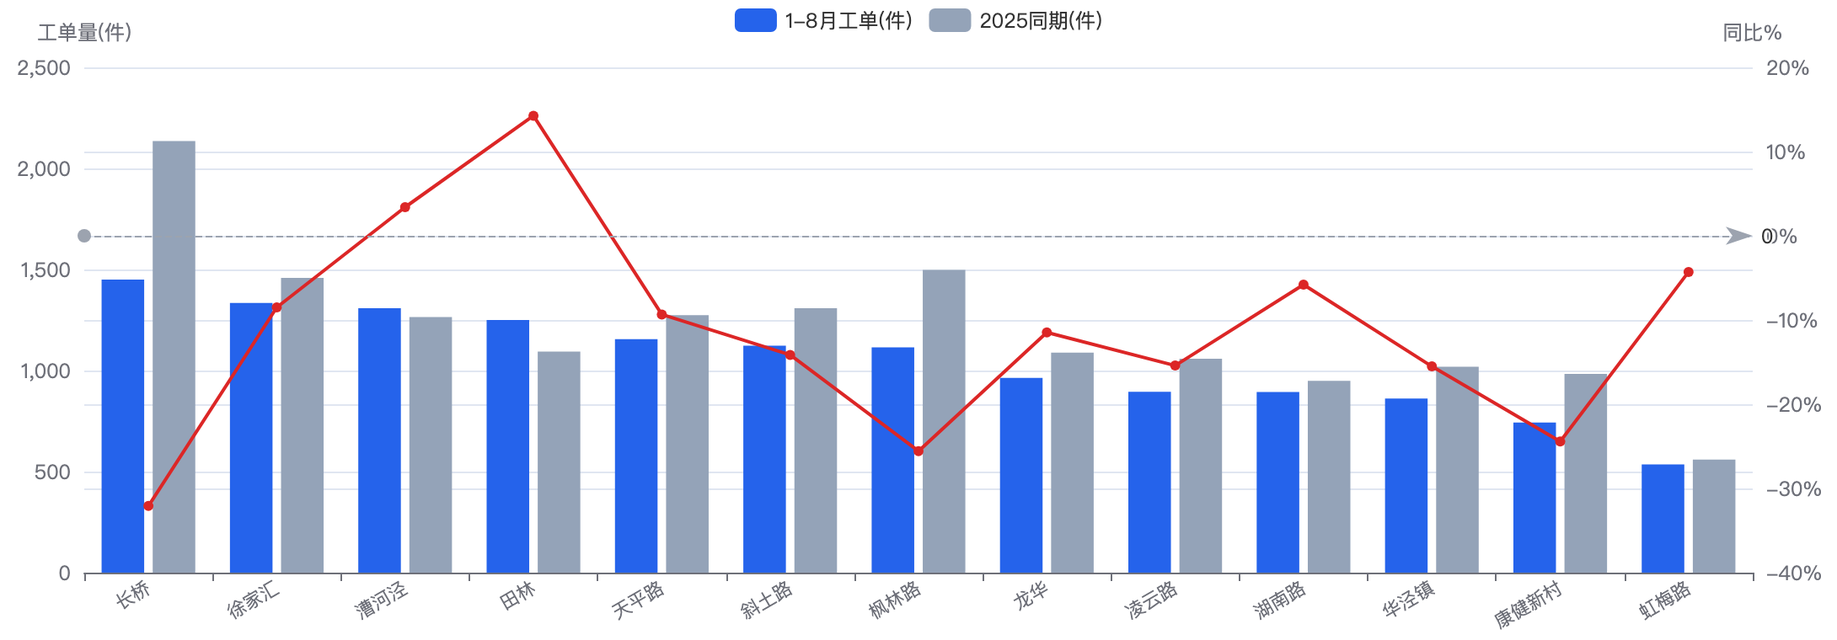
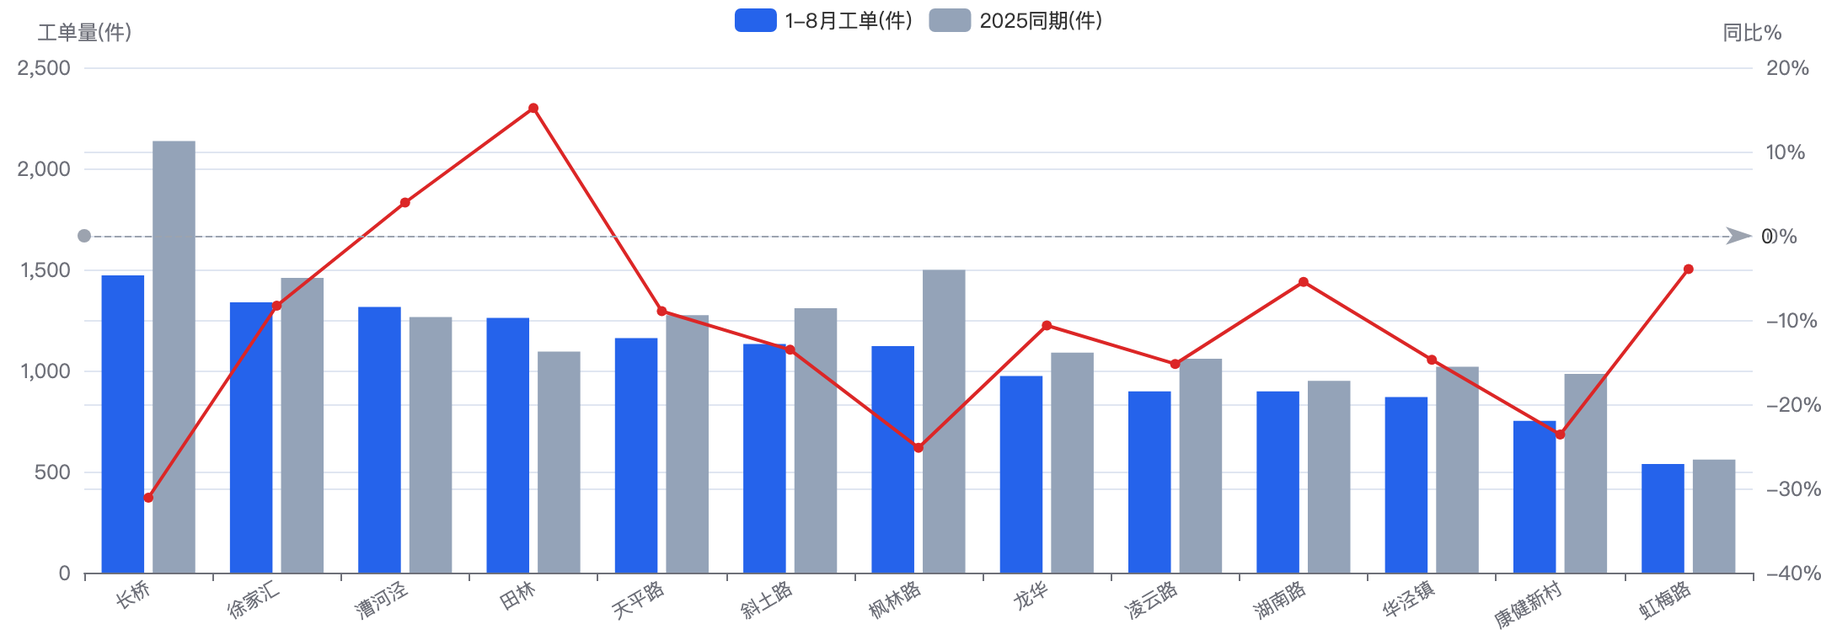
chore: 发布成果站到 gh-pages（GitHub Pages 专用发布分支）
仅含成果报告页与其依赖资源，不含脚本、docx/xlsx 数据文件与原始工单明细。
由 scripts/build_publish_site.py + scripts/publish_gh_pages.py 生成。

diff --git a/网页版整改清单（技术方执行版）.html b/网页版整改清单（技术方执行版）.html
@@ -59,7 +59,7 @@
 
 <header>
   <h1>徐汇物业投诉数据分析项目 · 网页版整改清单</h1>
-  <div class="sub">技术方执行版 <b>v2.6</b> · 13 项中 <b>12 项已完成</b>（<b>余第 11 项</b>：同比删 2024）；10 条口径决策全部落地 + 全站纳统口径源已统一到 <b>993</b>，<b>无待决项</b></div>
+  <div class="sub">技术方执行版 <b>v2.7</b> · 13 项中 <b>12 项已完成</b>（<b>余第 11 项</b>：同比删 2024）；10 条口径决策全部落地 + 全站纳统口径源已统一到 <b>993</b>，<b>无待决项</b></div>
   <div class="meta">
     来源：2026-09-23 项目汇报与工单数据获取沟通会议 &nbsp;|&nbsp;
     v1 整理：2026-09-28 &nbsp;|&nbsp; v2 修订：2026-09-28（并入 6 条口径决策）&nbsp;|&nbsp;
@@ -68,7 +68,8 @@
     v2.3 修订：2026-09-28（<b>风险评估类报告改按《纳统小区 (2026 更新版)》统计</b>：参评 772 / 红 254 / 橙 386 / 黄 108 / 蓝 24、治理追踪 390、纳统总数 993）&nbsp;|&nbsp;
     v2.4 修订：2026-09-28（<b>全站统一到 993</b>：关联库按 2026 更新版重建为 993 行 × 45 字段，多源／根因两份报告的匹配链路重跑、关联字段复算，街镇密度户数改为按纳统小区归并）&nbsp;|&nbsp;
     v2.5 修订：2026-09-29（<b>第 6/8/9/10/13 项落地</b>：高风险评分改 100 分起扣、底抬小区在街镇单独分类、关键数字下钻抽屉、词云停用词人工审核 249 词、华泾红色占比核查）&nbsp;|&nbsp;
-    v2.6 修订：2026-09-29（<b>第 12 项落地</b>：治理报告新增第八节「物业服务态度投诉专项排名」公司／小区双视图 + <b>全区同比口径修正</b>：-12.6% → <b>-13.1%</b>，减少 2,072 件）<br>
+    v2.6 修订：2026-09-29（<b>第 12 项落地</b>：治理报告新增第八节「物业服务态度投诉专项排名」公司／小区双视图 + <b>全区同比口径修正</b>：-12.6% → <b>-13.1%</b>，减少 2,072 件）&nbsp;|&nbsp;
+    v2.7 修订：2026-10-10（<b>街镇密度分母统一 + 第 9 章口径修正</b>：密度分母由「仅本期有投诉小区」改为<b>全部纳统小区</b>（全区 518,389 户）→ <b>湖南街道密度 49.0 件/千户</b>（<b>推翻原 2-C 决策的 50.7</b>）；第 9 章《1-8月工单综合分析与目标测算》街镇口径与第 8 章街镇报告统一为 <b>13,719</b>）<br>
     代码基线：<code>f120ca2</code>（2026-09-22，线上 GitHub Pages 与本地一致）<br>
     ⚠ 行号基于整理时的文件版本；改完一处后续行号会位移，请以「关键词定位」为准。
   </div>
@@ -116,8 +117,9 @@
     </tr>
     <tr>
       <td>7</td><td>湖南路投诉密度</td>
-      <td><b>采用 50.7 件/千户</b>（保留一位小数，<b>不取整为 50</b>）。全站凡出现湖南路/湖南街道投诉密度处，一律为
-        <b>50.7 件/千户（全区最高）</b>；5.0 万人口 · 2,535 件口径不变。</td>
+      <td><b>采用 49.0 件/千户</b>（保留一位小数）。全站凡出现湖南路/湖南街道投诉密度处，一律为
+        <b>49.0 件/千户（全区最高）</b>；分母统一为<b>全部纳统小区</b>总户数（18,299 户，897 ÷ 18,299 × 1000）。
+        <span class="was">原 2-C 决策的 50.7 件/千户（分母仅计本期有投诉小区 17,675 户）已于 2026-10-10 废弃。</span></td>
       <td>第 2 项</td>
     </tr>
     <tr>
@@ -164,7 +166,7 @@
 <div class="note green">
   <b>✅ v2.3→v2.4：10 条口径决策全部落地 + 全站纳统口径源统一到 993，无待决项，可直接开工。</b><br>
   <b>第一批（6 条）：</b>纳统基准数 / 预警基数 / 治理追踪表述 / 1-8 月统一 / 智能体下架 / 下钻方案二。<br>
-  <b>第二批（3 条）：</b>① 湖南路密度取 <b>50.7</b> 不取整；② 同比<b>删 2024</b>、只留 2025 vs 2026；
+  <b>第二批（3 条）：</b>① 湖南路密度取 <b>49.0</b>（<span class="was">原定 50.7，2026-10-10 分母口径变更后废弃</span>）；② 同比<b>删 2024</b>、只留 2025 vs 2026；
   ③ 治理追踪门槛不可简化，表述统一为「2025 年同期≥10 件」主导门槛。<br>
   <b>第三批（1 条，本次并入）：</b>④ <b>风险评估类报告改按《纳统小区 (2026 更新版)》统计</b> ——
   只统计名单内小区、按纳统小区聚合、统一到 2026年1-8月。随之定档：纳统总数 <b>993</b>（968 个有热线记录）、
@@ -223,7 +225,7 @@
       <tr><td>底部抬升小区投诉降幅</td><td class="to">16.9%</td><td>16.9%</td><td>✅ 已一致</td></tr>
       <tr><td>纳统小区总数</td><td class="to">993（《纳统小区 (2026 更新版)》档案）</td><td class="was">994（旧关联库）/ 968 并存且未区分含义</td><td class="to">✅ 已定：993 为基准，968 为参与口径（见 2-A）</td></tr>
       <tr><td>高风险预警参评基数</td><td class="to">投诉量≥10件的参评小区，<b>772 个</b></td><td class="was">620 / 628 / 799 三说</td><td class="to">✅ 已定：全站统一 772（见 2-B）</td></tr>
-      <tr><td>湖南街道投诉密度</td><td class="to">50.7 件/千户</td><td>50.7（居首）</td><td class="to">✅ 已定：保留 50.7，不取整（见 2-C）</td></tr>
+      <tr><td>湖南街道投诉密度</td><td class="to">49.0 件/千户</td><td>49.0（居首）</td><td class="to">✅ 已定：分母为全部纳统小区（518,389 户）→ 49.0（见 2-C）</td></tr>
       <tr><td>风险评估报告纳入范围</td><td class="to">仅《纳统小区 (2026 更新版)》名单内 · 按纳统小区聚合 · 2026年1-8月</td><td class="was">热线全口径自由文本小区名、1-7月与三年累计混用</td><td class="to">✅ 已定（见 2-D）</td></tr>
     </table>
 
@@ -257,6 +259,9 @@
       <b>复算结果：</b>热线覆盖 <b>968/993（97.5%）</b>、电梯 <b>257/268（95.9%）</b>、
       修缮 <b>285/338（84.3%）</b>、底部抬升 <b>83/84（98.8%）</b>；街镇密度户数改为按纳统小区归并累加
       （494,966 → <b>507,982</b>），修正原「小区名匹配不上即按 0 户计」导致的密度虚高。<br>
+      <b>⚠ v2.7 再次修正（2026-10-10）：</b>上述 507,982 仍只是「<b>本期有投诉</b>小区」的户数合计，口径仍偏窄。
+      现统一为<b>全部纳统小区</b>总户数 <b>518,389 户</b>（993 个小区，<code>total_households</code> 全量累加），
+      与第 9 章一致；湖南路密度随之由 50.7 修正为 <b>49.0</b> 件/千户（见 2-C）。<br>
       <b>另需注意：</b>旧库主表并非旧版《纳统小区.xls》（二者虽同为 994 行，但户数有 8 处不同、
       名称用半角括号、且有「钦州大厦」这类只在旧库存在的条目），故本次为 <b>独立重建</b> 而非增量改名。
     </div>
@@ -324,13 +329,20 @@
       "1 个"改为实际数量 <b>254 个</b>。
     </div>
 
-    <h4>2-C 湖南街道投诉密度 <span style="color:#15803d;">（已定 · 采用 50.7，不取整）</span></h4>
+    <h4>2-C 湖南街道投诉密度 <span style="color:#15803d;">（已定 · 采用 49.0，v2.7 修订）</span></h4>
     <ul class="tight">
-      <li><b>结论：</b>保留 <b>50.7 件/千户</b>（保留一位小数），<b>不四舍五入为 50</b>。整改单中「50」视为概数表述，精确值以计算口径为准。</li>
-      <li>现状：<code>街镇专项分析报告.html:1853</code> 显示 <b>50.7</b> 件/千户（居首）；<code>版本更新记录.html:237</code> 亦为 50.7 —— <b>两处均已正确，无需改数</b>。</li>
+      <li><b>结论：</b>采用 <b>49.0 件/千户</b>（保留一位小数）。<span class="was">原 v2.2 定的「50.7 不取整」随分母口径变更于 2026-10-10 作废。</span></li>
+      <li><b>分母口径（关键）：</b>密度分母统一为<b>全部纳统小区</b>的总户数（<b>不区分本期有无投诉</b>），
+        取自《纳统小区 (2026 更新版)》档案 <code>total_households</code> 字段，993 个小区全区合计 <b>518,389 户</b>。
+        湖南路＝897 ÷ 18,299 × 1000 = <b>49.0</b> 件/千户。</li>
+      <li><b>变更理由：</b>旧口径「仅计 2026年1-8月有投诉小区」会使分母随「哪些小区恰好有投诉」浮动、
+        密度虚高，且与第 9 章《1-8月工单综合分析与目标测算》的分母不一致（旧全区 507,982 户 vs 全量 518,389 户）。
+        统一后第 8 章街镇报告与第 9 章数值完全对齐。</li>
+      <li>现状：<code>街镇专项分析报告.html</code> 密度排名表湖南路行 = 897 / 18,299 / <b>49.0</b>；
+        第 9 章《1-8月工单综合分析与目标测算》街镇表同步为 <b>49.0</b>。</li>
       <li>口径：投诉密度 = 投诉量 ÷ 户数 × 1000（<b>件/千户</b>），全站统一，不使用「件/百户」「件/小区」。</li>
-      <li><b>待办（仅查漏）：</b>全站检索「湖南」+ 密度值，确认无第三处写成 50 或 50.0；如 `片区/街镇对比表` 中有取整展示，一并改为 50.7。若确需同时展示概数，写作
-        <b>「50.7 件/千户（约 51 件/千户）」</b>，不得直接写 50。</li>
+      <li><b>待办（仅查漏）：</b>全站检索「湖南」+ 密度值，确认无 50 / 50.0 / 48.9 等旧写法残留
+        （已加入 <code>scripts/audit_consistency.py</code> 的 BASE / BANNED / COMBOS 三表）。</li>
     </ul>
     <h4>验收</h4>
     <p>主报告、街镇专题、根因分析、底部抬升四个模块交叉核对，上述指标数字完全一致，且收窄口径处均有说明。</p>
@@ -778,7 +790,7 @@
       <tr><td>4</td><td>治理追踪小区数</td><td class="was">394（治理报告）/ 635（智能体页 + 课题成果总览）</td><td class="to">✅ <b>390</b> 为准；635 已处置（成果总览 4 处改 390，智能体页随下架消失）</td></tr>
       <tr><td>5</td><td>底部抬升小区数</td><td class="was">84（专题页）/ 78（专题页他处）/ 23（根因报告）</td><td class="to">✅ 统一为 84，统计分母 78 并注明（第 1 项）</td></tr>
       <tr><td>6</td><td>去重率</td><td class="was">40.5% / 44.9% / 34.6% / 35.8% 四值并存</td><td class="to">✅ 统一为 1-8 月 35.8%（第 3 项）</td></tr>
-      <tr><td>7</td><td>湖南街道投诉密度</td><td class="was">50（整改单）/ 50.7（报告实测）</td><td class="to">✅ 已定：<b>50.7 件/千户</b>，不取整（第 2-C 项）</td></tr>
+      <tr><td>7</td><td>湖南街道投诉密度</td><td class="was">50（整改单）/ 50.7（报告实测）</td><td class="to">✅ 已定：<b>49.0 件/千户</b>，分母统一为全部纳统小区（518,389 户）（第 2-C 项，v2.7 修订）</td></tr>
       <tr><td>8</td><td>风险评估报告纳入范围<br><span style="font-size:11px;">（v2.3 新增）</span></td><td class="was">热线全口径自由文本小区名（含名单外）；1-7 月与三年累计混用</td><td class="to">✅ 已定：仅《纳统小区 (2026 更新版)》名单内 + 按纳统小区聚合 + 2026年1-8月（第 2-D 项）</td></tr>
     </table>
     <p class="note green">本表 8 项现已<b>全部定档</b>。整改完成后<b>必须跑一次全站数字对账</b>（验收步骤，见<b>第八节</b>）：
@@ -811,7 +823,7 @@
       <tr><th>批次</th><th>内容</th><th>说明</th></tr>
       <tr><td><b>第 0 批</b><br>已决（归档）</td>
         <td>口径决策共 <b>10 条</b>全部落定：第一批 6 条（纳统基准 / 预警基数 / 治理追踪 / 1-8月 / 智能体 / 下钻）<br>
-          ＋ 第二批 3 条（湖南路 50.7 / 同比删 2024 / 治理追踪门槛不可简化）<br>
+          ＋ 第二批 3 条（湖南路 49.0 / 同比删 2024 / 治理追踪门槛不可简化）<br>
           ＋ 第三批 1 条（<b>风险评估报告改按纳统小区统计</b>）</td>
         <td class="to">✅ <b>已定，无需再议</b>。第 2、4、9、11 四项的数字与明细条数随之全部确定</td></tr>
       <tr><td><b>第 0.5 批</b><br><span style="color:#15803d;">本轮已完成</span></td>
@@ -819,7 +831,7 @@
           <code>governance_tracking.py --scope aggregate</code> → 参评 <b>772</b>、追踪 <b>390</b>；
           同步改《高风险小区预警清单》《治理效果追踪分析报告》《街镇专项分析报告》《课题成果总览》</td>
         <td class="to">✅ <b>已落地</b>；对账脚本冲突已由 5 处收敛到 <b>0 处</b></td></tr>
-      <tr><td><b>第 1 批</b><br>口径固化与下架</td><td>第 2 项（993 基准+参与口径、预警基数 772、湖南路 50.7）、第 4 项（治理追踪表述统一，390）、第 5 项（智能体下架）</td>
+      <tr><td><b>第 1 批</b><br>口径固化与下架</td><td>第 2 项（993 基准+参与口径、预警基数 772、湖南路 49.0）、第 4 项（治理追踪表述统一，390）、第 5 项（智能体下架）</td>
         <td>智能体下架后可自动消除 635、44.9% 两处冲突，宜尽早做</td></tr>
       <tr><td><b>第 2 批</b><br>核心数据修正</td><td>第 1 项（底部抬升 84）、第 3 项（1-6月→1-8月，含整年重跑）、第 13 项（华泾占比）</td>
         <td>直接影响向新组织部长汇报，优先级最高；第 3 项需先重跑 <code>dedup_monthly.py</code></td></tr>
@@ -930,7 +942,7 @@
         <td class="was">把 <b>-12.6%</b>（13 街镇合计 13,719÷15,689，减少 1,970 件）标为「全区」<br><span style="font-size:11px;">两口径差 102 件 = 归属为空工单的减少量；街镇口径可用于「街镇明细合计」，但不得冠以「全区」</span></td></tr>
       <tr><td>14</td><td>底部抬升小区投诉降幅</td><td class="to">-16.9%</td><td>16.9%</td><td class="was">—</td></tr>
       <tr><td>15</td><td>华泾镇红色预警占比</td><td class="to">47.6%</td><td>47.6%（全区最高）</td><td class="was">0.0% · 57.1%（旧口径）</td></tr>
-      <tr><td>16</td><td>湖南街道投诉密度</td><td class="to">50.7 件/千户</td><td>50.7（全区最高）</td><td class="was">50 · 50.0（取整写法）</td></tr>
+      <tr><td>16</td><td>湖南街道投诉密度</td><td class="to">49.0 件/千户</td><td>49.0（全区最高）</td><td class="was">50 · 50.0 · 50.7 · 48.9（旧分母口径）</td></tr>
       <tr><td>17</td><td>同比对比年数</td><td class="to">仅 2025 / 2026 两年</td><td>2025年1-8月 vs 2026年1-8月</td>
         <td class="was">2024 vs 2025 vs 2026 · 较 2024 年 · cat2024 · y24</td></tr>
       <tr><td>18</td><td>智能体相关</td><td class="to">全站不可出现</td><td>—</td><td class="was">智能体 · AI助手 · 大模型 · 635</td></tr>

diff --git a/徐汇区1-8月工单综合分析与目标测算.html b/徐汇区1-8月工单综合分析与目标测算.html
@@ -49,7 +49,7 @@ border-radius:8px;padding:14px 18px;margin:12px 0;font-size:14px}
 </style></head><body><div class="wrap">
 
 <h1>徐汇区物业投诉 1–8 月综合分析与目标测算</h1>
-<div class="sub">数据周期 2024.01–2026.08 ｜ 街镇对比用项目主数据口径（13,627件）｜ 全市对比用市局十四类口径（13,726件）｜ 生成于 2026-09-29</div>
+<div class="sub">数据周期 2024.01–2026.08 ｜ 街镇对比用项目主数据口径（13,719件）｜ 全市对比用市局十四类口径（13,726件）｜ 生成于 2026-10-10</div>
 
 <div class="callout danger"><b>核心判断：</b>徐汇 1–8 月累计同比 <b>-13.1%</b>（全市第 13/17，低于全市平均 -15.4%），但月度环比已连续 4 个月上涨，<b>8 月单月同比转正 +2.84%</b>、日均已达 <b>72 件</b>。若 9–12 月维持 8 月高位，全年降幅将收窄至约 <b>-5.6%</b>、排名跌至第 16/17。<b>要保持全年下降态势，9–12 月日均工单需控制在 51–56 件</b>，较 8 月回落约 16–21 件/日。</div>
 
@@ -72,7 +72,7 @@ border-radius:8px;padding:14px 18px;margin:12px 0;font-size:14px}
 <div class="card"><h3>同比降幅排序</h3><div class="chart s" id="c-street2"></div></div>
 <div class="card"><h3>诉求密度对比</h3><div class="chart s" id="c-street3"></div></div>
 </div>
-<div class="callout warn"><b>街镇观察：</b>① <b>田林（+14.3%）、漕河泾（+3.4%）</b>是仅有的两个同比上升街镇，田林尤甚，需重点介入；② <b>长桥（-32.1%）、枫林路（-25.6%）、康健（-24.4%）</b>降幅领先，治理成效突出；③ 密度上 <b>湖南路（48.9）、天平路（37.6）</b>远高于均值，老城区压力集中；康健（18.4）、龙华（21.2）密度最低。</div>
+<div class="callout warn"><b>街镇观察：</b>① <b>田林（+15.2%）、漕河泾（+4.0%）</b>是仅有的两个同比上升街镇，田林尤甚，需重点介入；② <b>长桥（-31.1%）、枫林路（-25.2%）、康健新村（-23.6%）</b>降幅领先，治理成效突出；③ 密度上 <b>湖南路（49.0）、天平路（37.7）</b>远高于均值，老城区压力集中；康健新村（18.6）、龙华（21.4）密度最低。</div>
 
 <h2><span class="n">二、</span>徐汇在全市的水平与月度走势</h2>
 <div class="card">
@@ -114,9 +114,9 @@ border-radius:8px;padding:14px 18px;margin:12px 0;font-size:14px}
 <div class="callout"><b>行动建议：</b>
 <div style="margin-top:8px;font-size:13.5px;line-height:1.8">
 1. <b>立即设日均红线 56 件</b>（维持位次线），争取 51 件（进前 9 线）；8 月已达 72 件，须回落 ≥16 件/日。<br>
-2. <b>重点压降反弹街镇</b>：田林（+14.3%）、漕河泾（+3.4%）为同比上升区，是拖累全局的主因，建议单列专项。<br>
+2. <b>重点压降反弹街镇</b>：田林（+15.2%）、漕河泾（+4.0%）为同比上升区，是拖累全局的主因，建议单列专项。<br>
 3. <b>夏季高峰前置干预</b>：7–8 月为历史高峰且 2026 反弹强，9 月起对停车管理、群租、物业安保等高频类目开展集中整治。<br>
-4. <b>密度治理聚焦湖南路、天平路</b>（老城区密度超均值 1.5 倍），结合加装电梯、老旧小区改造推进根源治理。<br>
+4. <b>密度治理聚焦湖南路、天平路</b>（两镇密度显著高于全区均值），结合加装电梯、老旧小区改造推进根源治理。<br>
 5. <b>9 月数据入库后</b>可一键更新本测算；若 9 月仍 >2,200 件，建议将全年目标从"维持-13.1%"下调为"保-10%底线"。
 </div></div>
 
@@ -124,7 +124,7 @@ border-radius:8px;padding:14px 18px;margin:12px 0;font-size:14px}
 </div>
 
 <script>
-var DATA = {"street": {"rows": [{"name": "长桥", "c26": 1450, "c25": 2135, "yoy": -32.08, "hh": 56474, "density": 25.7}, {"name": "徐家汇", "c26": 1334, "c25": 1458, "yoy": -8.5, "hh": 57441, "density": 23.2}, {"name": "漕河泾", "c26": 1308, "c25": 1265, "yoy": 3.4, "hh": 50477, "density": 25.9}, {"name": "田林", "c26": 1250, "c25": 1094, "yoy": 14.26, "hh": 47202, "density": 26.5}, {"name": "天平路", "c26": 1155, "c25": 1274, "yoy": -9.34, "hh": 30763, "density": 37.5}, {"name": "斜土路", "c26": 1123, "c25": 1308, "yoy": -14.14, "hh": 39121, "density": 28.7}, {"name": "枫林路", "c26": 1115, "c25": 1498, "yoy": -25.57, "hh": 40319, "density": 27.7}, {"name": "龙华", "c26": 964, "c25": 1089, "yoy": -11.48, "hh": 45440, "density": 21.2}, {"name": "凌云路", "c26": 895, "c25": 1058, "yoy": -15.41, "hh": 40410, "density": 22.1}, {"name": "湖南路", "c26": 894, "c25": 949, "yoy": -5.8, "hh": 18299, "density": 48.9}, {"name": "华泾镇", "c26": 861, "c25": 1019, "yoy": -15.51, "hh": 35426, "density": 24.3}, {"name": "康健新村", "c26": 743, "c25": 983, "yoy": -24.42, "hh": 40412, "density": 18.4}, {"name": "虹梅路", "c26": 535, "c25": 559, "yoy": -4.29, "hh": 16605, "density": 32.2}], "t26": 13627, "t25": 15689, "thh": 518389, "t_yoy": -13.1, "t_density": 26.3}, "city": {"rows": [{"name": "崇明区", "c26": 2012, "c25": 2862, "yoy": -29.7, "density": 1.29, "dr": 1, "ddr": 17}, {"name": "奉贤区", "c26": 9028, "c25": 12397, "yoy": -27.2, "density": 2.63, "dr": 2, "ddr": 15}, {"name": "黄浦区", "c26": 5157, "c25": 6584, "yoy": -21.7, "density": 3.36, "dr": 3, "ddr": 6}, {"name": "松江区", "c26": 14639, "c25": 18607, "yoy": -21.3, "density": 2.83, "dr": 4, "ddr": 12}, {"name": "长宁区", "c26": 7557, "c25": 9422, "yoy": -19.8, "density": 3.04, "dr": 5, "ddr": 10}, {"name": "青浦区", "c26": 9015, "c25": 11168, "yoy": -19.3, "density": 2.7, "dr": 6, "ddr": 14}, {"name": "闵行区", "c26": 21068, "c25": 25194, "yoy": -16.4, "density": 2.81, "dr": 7, "ddr": 13}, {"name": "嘉定区", "c26": 14790, "c25": 17684, "yoy": -16.4, "density": 3.09, "dr": 8, "ddr": 9}, {"name": "宝山区", "c26": 20283, "c25": 24101, "yoy": -15.8, "density": 2.93, "dr": 9, "ddr": 11}, {"name": "临港新片区", "c26": 2703, "c25": 3141, "yoy": -13.9, "density": 4.17, "dr": 10, "ddr": 1}, {"name": "普陀区", "c26": 15194, "c25": 17645, "yoy": -13.9, "density": 3.56, "dr": 11, "ddr": 3}, {"name": "虹口区", "c26": 7418, "c25": 8605, "yoy": -13.8, "density": 3.13, "dr": 12, "ddr": 8}, {"name": "徐汇区", "c26": 13726, "c25": 15798, "yoy": -13.1, "density": 3.83, "dr": 13, "ddr": 2}, {"name": "金山区", "c26": 4314, "c25": 4947, "yoy": -12.8, "density": 2.0, "dr": 14, "ddr": 16}, {"name": "静安区", "c26": 11185, "c25": 12769, "yoy": -12.4, "density": 3.38, "dr": 15, "ddr": 5}, {"name": "浦东新区", "c26": 52726, "c25": 59420, "yoy": -11.3, "density": 3.2, "dr": 16, "ddr": 7}, {"name": "杨浦区", "c26": 13300, "c25": 14495, "yoy": -8.2, "density": 3.54, "dr": 17, "ddr": 4}], "xh_rank_dr": 13, "xh_rank_ddr": 2, "avg_yoy": -15.4, "xh_c26": 13726, "xh_c25": 15798, "xh_yoy": -13.1, "xh_density": 3.83}, "xh_monthly": [{"m": "1月", "vol": 1485, "yoy": -16.4, "mom": -18.1, "density": 3.12}, {"m": "2月", "vol": 888, "yoy": -37.4, "mom": -40.2, "density": 1.86}, {"m": "3月", "vol": 1682, "yoy": -22.0, "mom": 89.2, "density": 3.77}, {"m": "4月", "vol": 1704, "yoy": -18.6, "mom": 1.3, "density": 3.82}, {"m": "5月", "vol": 1772, "yoy": -11.1, "mom": 4.0, "density": 3.97}, {"m": "6月", "vol": 1856, "yoy": -10.6, "mom": 4.7, "density": 4.15}, {"m": "7月", "vol": 2097, "yoy": -0.2, "mom": 13.0, "density": 4.69}, {"m": "8月", "vol": 2242, "yoy": 2.8, "mom": 6.9, "density": 5.29}], "target": {"base_full_2025": 23618, "base_9525": 7820, "cur_18": 13726, "scenarios": [{"label": "-15.4% · 达全市平均（进前9）", "r": -15.4, "full": 19981, "x": 6255, "mo": 1564, "day": 51.3, "vs25": -20.0}, {"label": "-15.0% · 挑战线", "r": -15.0, "full": 20075, "x": 6349, "mo": 1587, "day": 52.0, "vs25": -18.8}, {"label": "-13.1% · 维持当前位次", "r": -13.1, "full": 20524, "x": 6798, "mo": 1700, "day": 55.7, "vs25": -13.1}, {"label": "-10.0% · 底线（仍为下降）", "r": -10.0, "full": 21256, "x": 7530, "mo": 1883, "day": 61.7, "vs25": -3.7}, {"label": "-8.8% · 持平2025同期（警惕）", "r": -8.8, "full": 21540, "x": 7814, "mo": 1953, "day": 64.0, "vs25": -0.1}, {"label": "0% · 持平全年", "r": 0.0, "full": 23618, "x": 9892, "mo": 2473, "day": 81.1, "vs25": 26.5}], "remediate": [{"label": "维持-13.1%", "r": -13.1, "octdec": 4548, "octdec_day": 49.4, "novdec": 2348, "novdec_day": 38.5}, {"label": "达全市平均-15.4%", "r": -15.4, "octdec": 4005, "octdec_day": 43.5, "novdec": 1805, "novdec_day": 29.6}, {"label": "保-10%底线", "r": -10.0, "octdec": 5280, "octdec_day": 57.4, "novdec": 3080, "novdec_day": 50.5}], "aug_vol": 2242, "aug_day": 72.3, "h1_day": 56.5}};
+var DATA = {"street": {"rows": [{"name": "长桥", "c26": 1471, "c25": 2135, "yoy": -31.1, "hh": 56474, "density": 26.0}, {"name": "徐家汇", "c26": 1337, "c25": 1458, "yoy": -8.3, "hh": 57441, "density": 23.3}, {"name": "漕河泾", "c26": 1315, "c25": 1265, "yoy": 3.95, "hh": 50477, "density": 26.1}, {"name": "田林", "c26": 1260, "c25": 1094, "yoy": 15.17, "hh": 47202, "density": 26.7}, {"name": "天平路", "c26": 1160, "c25": 1274, "yoy": -8.95, "hh": 30763, "density": 37.7}, {"name": "斜土路", "c26": 1131, "c25": 1308, "yoy": -13.53, "hh": 39121, "density": 28.9}, {"name": "枫林路", "c26": 1121, "c25": 1498, "yoy": -25.17, "hh": 40319, "density": 27.8}, {"name": "龙华", "c26": 973, "c25": 1089, "yoy": -10.65, "hh": 45440, "density": 21.4}, {"name": "凌云路", "c26": 897, "c25": 1058, "yoy": -15.22, "hh": 40410, "density": 22.2}, {"name": "湖南路", "c26": 897, "c25": 949, "yoy": -5.48, "hh": 18299, "density": 49.0}, {"name": "华泾镇", "c26": 869, "c25": 1019, "yoy": -14.72, "hh": 35426, "density": 24.5}, {"name": "康健新村", "c26": 751, "c25": 983, "yoy": -23.6, "hh": 40412, "density": 18.6}, {"name": "虹梅路", "c26": 537, "c25": 559, "yoy": -3.94, "hh": 16605, "density": 32.3}], "t26": 13719, "t25": 15689, "thh": 518389, "t_yoy": -12.6, "t_density": 26.5}, "city": {"rows": [{"name": "崇明区", "c26": 2012, "c25": 2862, "yoy": -29.7, "density": 1.29, "dr": 1, "ddr": 17}, {"name": "奉贤区", "c26": 9028, "c25": 12397, "yoy": -27.2, "density": 2.63, "dr": 2, "ddr": 15}, {"name": "黄浦区", "c26": 5157, "c25": 6584, "yoy": -21.7, "density": 3.36, "dr": 3, "ddr": 6}, {"name": "松江区", "c26": 14639, "c25": 18607, "yoy": -21.3, "density": 2.83, "dr": 4, "ddr": 12}, {"name": "长宁区", "c26": 7557, "c25": 9422, "yoy": -19.8, "density": 3.04, "dr": 5, "ddr": 10}, {"name": "青浦区", "c26": 9015, "c25": 11168, "yoy": -19.3, "density": 2.7, "dr": 6, "ddr": 14}, {"name": "闵行区", "c26": 21068, "c25": 25194, "yoy": -16.4, "density": 2.81, "dr": 7, "ddr": 13}, {"name": "嘉定区", "c26": 14790, "c25": 17684, "yoy": -16.4, "density": 3.09, "dr": 8, "ddr": 9}, {"name": "宝山区", "c26": 20283, "c25": 24101, "yoy": -15.8, "density": 2.93, "dr": 9, "ddr": 11}, {"name": "临港新片区", "c26": 2703, "c25": 3141, "yoy": -13.9, "density": 4.17, "dr": 10, "ddr": 1}, {"name": "普陀区", "c26": 15194, "c25": 17645, "yoy": -13.9, "density": 3.56, "dr": 11, "ddr": 3}, {"name": "虹口区", "c26": 7418, "c25": 8605, "yoy": -13.8, "density": 3.13, "dr": 12, "ddr": 8}, {"name": "徐汇区", "c26": 13726, "c25": 15798, "yoy": -13.1, "density": 3.83, "dr": 13, "ddr": 2}, {"name": "金山区", "c26": 4314, "c25": 4947, "yoy": -12.8, "density": 2.0, "dr": 14, "ddr": 16}, {"name": "静安区", "c26": 11185, "c25": 12769, "yoy": -12.4, "density": 3.38, "dr": 15, "ddr": 5}, {"name": "浦东新区", "c26": 52726, "c25": 59420, "yoy": -11.3, "density": 3.2, "dr": 16, "ddr": 7}, {"name": "杨浦区", "c26": 13300, "c25": 14495, "yoy": -8.2, "density": 3.54, "dr": 17, "ddr": 4}], "xh_rank_dr": 13, "xh_rank_ddr": 2, "avg_yoy": -15.4, "xh_c26": 13726, "xh_c25": 15798, "xh_yoy": -13.1, "xh_density": 3.83}, "xh_monthly": [{"m": "1月", "vol": 1485, "yoy": -16.4, "mom": -18.1, "density": 3.12}, {"m": "2月", "vol": 888, "yoy": -37.4, "mom": -40.2, "density": 1.86}, {"m": "3月", "vol": 1682, "yoy": -22.0, "mom": 89.2, "density": 3.77}, {"m": "4月", "vol": 1704, "yoy": -18.6, "mom": 1.3, "density": 3.82}, {"m": "5月", "vol": 1772, "yoy": -11.1, "mom": 4.0, "density": 3.97}, {"m": "6月", "vol": 1856, "yoy": -10.6, "mom": 4.7, "density": 4.15}, {"m": "7月", "vol": 2097, "yoy": -0.2, "mom": 13.0, "density": 4.69}, {"m": "8月", "vol": 2242, "yoy": 2.8, "mom": 6.9, "density": 5.29}], "target": {"base_full_2025": 23618, "base_9525": 7820, "cur_18": 13726, "scenarios": [{"label": "-15.4% · 达全市平均（进前9）", "r": -15.4, "full": 19981, "x": 6255, "mo": 1564, "day": 51.3, "vs25": -20.0}, {"label": "-15.0% · 挑战线", "r": -15.0, "full": 20075, "x": 6349, "mo": 1587, "day": 52.0, "vs25": -18.8}, {"label": "-13.1% · 维持当前位次", "r": -13.1, "full": 20524, "x": 6798, "mo": 1700, "day": 55.7, "vs25": -13.1}, {"label": "-10.0% · 底线（仍为下降）", "r": -10.0, "full": 21256, "x": 7530, "mo": 1883, "day": 61.7, "vs25": -3.7}, {"label": "-8.8% · 持平2025同期（警惕）", "r": -8.8, "full": 21540, "x": 7814, "mo": 1953, "day": 64.0, "vs25": -0.1}, {"label": "0% · 持平全年", "r": 0.0, "full": 23618, "x": 9892, "mo": 2473, "day": 81.1, "vs25": 26.5}], "remediate": [{"label": "维持-13.1%", "r": -13.1, "octdec": 4548, "octdec_day": 49.4, "novdec": 2348, "novdec_day": 38.5}, {"label": "达全市平均-15.4%", "r": -15.4, "octdec": 4005, "octdec_day": 43.5, "novdec": 1805, "novdec_day": 29.6}, {"label": "保-10%底线", "r": -10.0, "octdec": 5280, "octdec_day": 57.4, "novdec": 3080, "novdec_day": 50.5}], "aug_vol": 2242, "aug_day": 72.3, "h1_day": 56.5}};
 // ===== 街镇表 =====
 var tb=document.querySelector('#t-street tbody');
 DATA.street.rows.forEach(function(r,i){

diff --git a/街镇专项分析报告.html b/街镇专项分析报告.html
@@ -148,7 +148,7 @@
 <div class="container">
 <div class="note-box">
   <b>口径说明</b>
-  <div>· 街镇明细合计 13,719 条 + 归属为空 7 条 = 全区 13,726 条</div><div>· 同比统一采用同期口径（1-8月 vs 1-8月），不使用全年基数</div><div>· <b>同比须区分两个口径</b>：<b>全区</b> = 13,726 vs 15,798（含「归属为空」，2025年同期归属为空 109 条） → <b>-13.1%</b>；<b>13 个街镇合计</b> = 13,719 vs 15,689 → -12.6%。正文中的「全区同比」一律取前者；贡献度分母取后者（见第四节）</div><div>· 投诉密度 = 2026年1-8月投诉量 ÷ 户数 × 1000（件/千户）；户数为该街镇「2026年1-8月有投诉小区」按<b>纳统小区归并后</b>的总户数，取自《纳统小区 (2026 更新版)》档案 total_households 字段（993 个纳统小区；同一小区的别名/曾用名只计一次；工单主数据与 SQLite 库均无户数字段）</div><div>· 2026年 9-12 月数据未产生，图表以空值呈现</div><div>· 重复投诉率：同小区内容完全重复 ∪ 催办关键词 ∪ 同小区同类≥3次 ∪ 文本相似≥0.6，按街镇 1-8 月累计计算</div><div>· 治理成效为 2026年1-8月 vs 2025年同期 口径（已排除「其他」「房屋交易纠纷」等非物业类）；案例判定以 2026 年同期同比为准：恶化 &lt;-10%｜改善 &gt;+10%；2026年1-8月零工单的小区单列「本期无投诉」，不参与排名；风险评估为 772 个参评小区口径（仅《纳统小区 (2026 更新版)》名单内小区，按纳统小区聚合，2026年1-8月投诉量≥10件）</div>
+  <div>· 街镇明细合计 13,719 条 + 归属为空 7 条 = 全区 13,726 条</div><div>· 同比统一采用同期口径（1-8月 vs 1-8月），不使用全年基数</div><div>· <b>同比须区分两个口径</b>：<b>全区</b> = 13,726 vs 15,798（含「归属为空」，2025年同期归属为空 109 条） → <b>-13.1%</b>；<b>13 个街镇合计</b> = 13,719 vs 15,689 → -12.6%。正文中的「全区同比」一律取前者；贡献度分母取后者（见第四节）</div><div>· 投诉密度 = 2026年1-8月投诉量 ÷ 户数 × 1000（件/千户）；户数为该街镇<b>全部纳统小区</b>的总户数（不区分本期有无投诉），取自《纳统小区 (2026 更新版)》档案 total_households 字段（993 个纳统小区，全区合计 518,389 户；工单主数据与 SQLite 库均无户数字段）</div><div>· 2026年 9-12 月数据未产生，图表以空值呈现</div><div>· 重复投诉率：同小区内容完全重复 ∪ 催办关键词 ∪ 同小区同类≥3次 ∪ 文本相似≥0.6，按街镇 1-8 月累计计算</div><div>· 治理成效为 2026年1-8月 vs 2025年同期 口径（已排除「其他」「房屋交易纠纷」等非物业类）；案例判定以 2026 年同期同比为准：恶化 &lt;-10%｜改善 &gt;+10%；2026年1-8月零工单的小区单列「本期无投诉」，不参与排名；风险评估为 772 个参评小区口径（仅《纳统小区 (2026 更新版)》名单内小区，按纳统小区聚合，2026年1-8月投诉量≥10件）</div>
   <div>· 重复投诉口径：同小区内容完全重复 ∪ 催办关键词 ∪ 同小区同类≥3次 ∪ 文本相似≥0.6，逐月独立去重后汇总</div>
 </div>
 
@@ -2192,7 +2192,7 @@
   </div>
 
   <div class="rank-panel" id="rank-density">
-    <div class="section-desc">投诉密度 = 2026年1-8月投诉量 ÷ 户数 × 1000（<b>件/千户</b>），衡量平均每千户居民的投诉强度；户数为该街镇「2026年1-8月有投诉小区」的总户数（取自《纳统小区 (2026 更新版)》档案 total_households，993 个纳统小区）。位次差 = 总量排名 − 密度排名，正数表示该街镇"总量不大但单位居民投诉更重"；末列「件/小区」为对照口径</div>
+    <div class="section-desc">投诉密度 = 2026年1-8月投诉量 ÷ 户数 × 1000（<b>件/千户</b>），衡量平均每千户居民的投诉强度；户数为该街镇<b>全部纳统小区</b>的总户数（不区分本期有无投诉，取自《纳统小区 (2026 更新版)》档案 total_households，993 个纳统小区，全区合计 518,389 户），与《徐汇区1-8月工单综合分析与目标测算》同口径。位次差 = 总量排名 − 密度排名，正数表示该街镇"总量不大但单位居民投诉更重"；「有投诉小区数」为 2026年1-8月实际产生工单的小区数，仅作参照；末列「件/小区」为对照口径</div>
     <table class="data-table">
       <tr>
         <th>密度<br>排名</th><th>街镇</th><th>投诉密度<br>（件/千户）</th><th>2026年<br>1-8月</th>
@@ -2201,9 +2201,9 @@
       <tr class="rank-1">
   <td>1</td>
   <td class="left"><b>湖南路</b></td>
-  <td style="font-weight:700;color:#1890ff;">50.7</td>
+  <td style="font-weight:700;color:#1890ff;">49.0</td>
   <td>897</td>
-  <td>17,675</td>
+  <td>18,299</td>
   <td>79</td>
   <td>11.4</td>
   <td>10</td>
@@ -2213,9 +2213,9 @@
 </tr><tr>
   <td>2</td>
   <td class="left"><b>天平路</b></td>
-  <td style="font-weight:700;color:#1890ff;">41.1</td>
+  <td style="font-weight:700;color:#1890ff;">37.7</td>
   <td>1,160</td>
-  <td>28,240</td>
+  <td>30,763</td>
   <td>117</td>
   <td>9.9</td>
   <td>5</td>
@@ -2225,9 +2225,9 @@
 </tr><tr>
   <td>3</td>
   <td class="left"><b>虹梅路</b></td>
-  <td style="font-weight:700;color:#1890ff;">33.8</td>
+  <td style="font-weight:700;color:#1890ff;">32.3</td>
   <td>537</td>
-  <td>15,889</td>
+  <td>16,605</td>
   <td>18</td>
   <td>29.8</td>
   <td>13</td>
@@ -2237,9 +2237,9 @@
 </tr><tr>
   <td>4</td>
   <td class="left"><b>斜土路</b></td>
-  <td style="font-weight:700;color:#1890ff;">29.2</td>
+  <td style="font-weight:700;color:#1890ff;">28.9</td>
   <td>1,131</td>
-  <td>38,786</td>
+  <td>39,121</td>
   <td>71</td>
   <td>15.9</td>
   <td>6</td>
@@ -2249,9 +2249,9 @@
 </tr><tr>
   <td>5</td>
   <td class="left"><b>枫林路</b></td>
-  <td style="font-weight:700;color:#1890ff;">28.5</td>
+  <td style="font-weight:700;color:#1890ff;">27.8</td>
   <td>1,121</td>
-  <td>39,303</td>
+  <td>40,319</td>
   <td>83</td>
   <td>13.5</td>
   <td>7</td>
@@ -2261,9 +2261,9 @@
 </tr><tr>
   <td>6</td>
   <td class="left"><b>田林</b></td>
-  <td style="font-weight:700;color:#1890ff;">27.1</td>
+  <td style="font-weight:700;color:#1890ff;">26.7</td>
   <td>1,260</td>
-  <td>46,535</td>
+  <td>47,202</td>
   <td>67</td>
   <td>18.8</td>
   <td>4</td>
@@ -2273,9 +2273,9 @@
 </tr><tr>
   <td>7</td>
   <td class="left"><b>漕河泾</b></td>
-  <td style="font-weight:700;color:#1890ff;">26.8</td>
+  <td style="font-weight:700;color:#1890ff;">26.1</td>
   <td>1,315</td>
-  <td>49,154</td>
+  <td>50,477</td>
   <td>98</td>
   <td>13.4</td>
   <td>3</td>
@@ -2309,9 +2309,9 @@
 </tr><tr>
   <td>10</td>
   <td class="left"><b>徐家汇</b></td>
-  <td style="font-weight:700;color:#1890ff;">24.0</td>
+  <td style="font-weight:700;color:#1890ff;">23.3</td>
   <td>1,337</td>
-  <td>55,680</td>
+  <td>57,441</td>
   <td>124</td>
   <td>10.8</td>
   <td>2</td>
@@ -2321,9 +2321,9 @@
 </tr><tr>
   <td>11</td>
   <td class="left"><b>凌云路</b></td>
-  <td style="font-weight:700;color:#1890ff;">22.4</td>
+  <td style="font-weight:700;color:#1890ff;">22.2</td>
   <td>897</td>
-  <td>40,042</td>
+  <td>40,410</td>
   <td>55</td>
   <td>16.3</td>
   <td>9</td>
@@ -2333,9 +2333,9 @@
 </tr><tr>
   <td>12</td>
   <td class="left"><b>龙华</b></td>
-  <td style="font-weight:700;color:#1890ff;">21.5</td>
+  <td style="font-weight:700;color:#1890ff;">21.4</td>
   <td>973</td>
-  <td>45,263</td>
+  <td>45,440</td>
   <td>57</td>
   <td>17.1</td>
   <td>8</td>
@@ -2345,9 +2345,9 @@
 </tr><tr>
   <td>13</td>
   <td class="left"><b>康健新村</b></td>
-  <td style="font-weight:700;color:#1890ff;">19.0</td>
+  <td style="font-weight:700;color:#1890ff;">18.6</td>
   <td>751</td>
-  <td>39,515</td>
+  <td>40,412</td>
   <td>62</td>
   <td>12.1</td>
   <td>12</td>

diff --git a/版本更新记录.html b/版本更新记录.html
@@ -95,9 +95,9 @@ body { font-family:"Microsoft YaHei","PingFang SC",sans-serif; background:#f0f2f
   <h1>📋 版本更新记录</h1>
   <div class="subtitle">徐汇区物业投诉治理数字化分析项目 · 迭代更新日志</div>
   <div class="meta">
-    <span>当前版本：v2.17.7</span>
+    <span>当前版本：v2.17.9</span>
     <span>更新日期：2026-10-10</span>
-    <span>累计更新：27 次</span>
+    <span>累计更新：29 次</span>
   </div>
 </div>
 
@@ -106,6 +106,53 @@ body { font-family:"Microsoft YaHei","PingFang SC",sans-serif; background:#f0f2f
   <div class="stat-box"><div class="stat-num">58</div><div class="stat-label">企业名归一数</div></div>
   <div class="stat-box"><div class="stat-num">321</div><div class="stat-label">汇编 PDF 页数</div></div>
   <div class="stat-box"><div class="stat-num">42</div><div class="stat-label">交付物文件总数</div></div>
+</div>
+
+<!-- ===== v2.17.9 ===== -->
+<div class="version-card">
+  <div class="version-header">
+    <span class="version-tag tag-fix">FIX</span>
+    <span class="version-num">v2.17.9</span>
+    <span class="version-date">2026-10-10</span>
+  </div>
+  <div class="version-body">
+
+    <div class="section-group">
+      <div class="section-title fix">📐 街镇密度分母统一 + 第 9 章街镇口径修正</div>
+      <ul class="item-list">
+        <li><span class="tag tag-fix">口径</span>街镇投诉密度分母由「仅本期有投诉小区」改为街道<b>全部纳统小区</b>的总户数，不再随「哪些小区恰好有投诉」浮动；993 个纳统小区全区合计 <b>518,389 户</b></li>
+        <li><span class="tag tag-fix">修正</span>湖南路投诉密度随之由 <b>50.7</b> 修正为 <b>49.0 件/千户</b>（897 ÷ 18,299 × 1000），仍居全区首位；密度排名其余位次不变</li>
+        <li><span class="tag tag-fix">修正</span>第 9 章《徐汇区1-8月工单综合分析与目标测算》街镇统计口径与第 8 章《街镇专项分析》对齐：13 个街镇明细合计 <b>13,719 件</b>（原时间筛选边界写法漏计 8 月 31 日带时点工单 92 件，误得 13,627 件）；全区口径仍为 13,726 件（含归属街道为空的工单）</li>
+        <li><span class="tag tag-imp">同步</span>桌面版《徐汇区物业治理工单1-8月综合分析报告》街镇明细表、底部抬升按街镇汇总表一并重算（底部抬升可匹配小区 <b>78 个</b>、2026年1-8月 <b>2,354 件</b>、同比 <b>-16.9%</b>）</li>
+        <li><span class="tag tag-data">口径说明</span>《编制说明》《第 2 章 数据范围与统计口径》《附录 A 统计口径说明》三处同步更新密度分母与两组同期总量的表述</li>
+        <li><span class="tag tag-opt">质量门</span>全站数字对账新增「密度分母（全区户数）」基准项，以及「湖南路密度旧值」「旧密度分母」「第 9 章旧街镇口径」三条反例，街镇报告与第 9 章同口径参与对账</li>
+      </ul>
+    </div>
+
+  </div>
+</div>
+
+<!-- ===== v2.17.8 ===== -->
+<div class="version-card">
+  <div class="version-header">
+    <span class="version-tag tag-new">NEW</span>
+    <span class="version-num">v2.17.8</span>
+    <span class="version-date">2026-10-10</span>
+  </div>
+  <div class="version-body">
+
+    <div class="section-group">
+      <div class="section-title feat">📚 街镇专项分析报告（13 镇分册）</div>
+      <ul class="item-list">
+        <li><span class="tag tag-new">新增</span>在原《街镇专项分析报告》之外，另建独立文件夹 <code>街镇专项分析报告（13镇分册）/</code>，按 13 个街镇各出一份 Word，共 <b>13 份</b></li>
+        <li><span class="tag tag-imp">内容</span>每份＝该街镇完整画像（趋势与同比、下降归因、结构画像、热点对象、诉求主题词云、重复投诉与数据质量、风险预警与治理成效、外部数据关联、底部抬升小区、结论要点），并保留全区口径说明</li>
+        <li><span class="tag tag-imp">附录</span>文末加「附　全区位次参照」：该镇在全区总量排名表与投诉密度排名表中的对应行，另附街镇对比图与下降贡献度排行两图，使单册脱离母报告亦可自洽阅读</li>
+        <li><span class="tag tag-new">脚本</span>新增 <code>scripts/gen_street_docx.py</code>，从渲染版母报告按面板拆分生成，图表与词云按镇自动配齐（各镇 5 张统计图 + 词云 + 2 张全区图）</li>
+        <li><span class="tag tag-opt">质量门</span>13 份分册逐份通过清单压平审计与隐私扫描；构建中间产物 <code>_build/</code> 已纳入忽略规则</li>
+      </ul>
+    </div>
+
+  </div>
 </div>
 
 <!-- ===== v2.17.7 ===== -->
